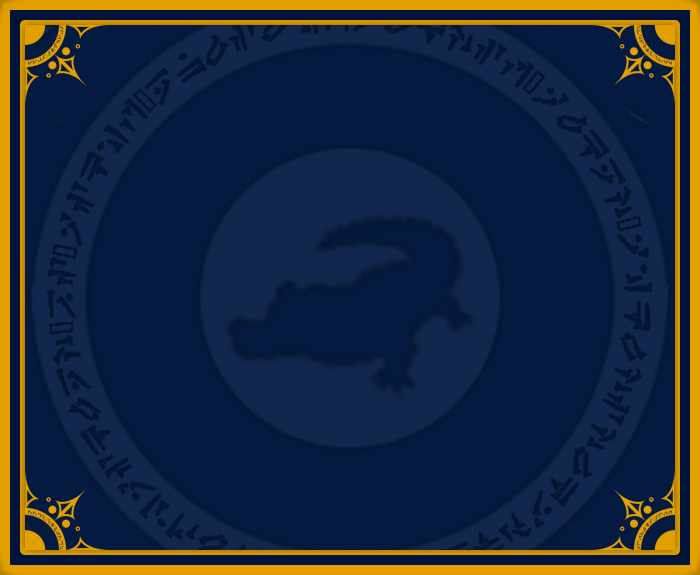
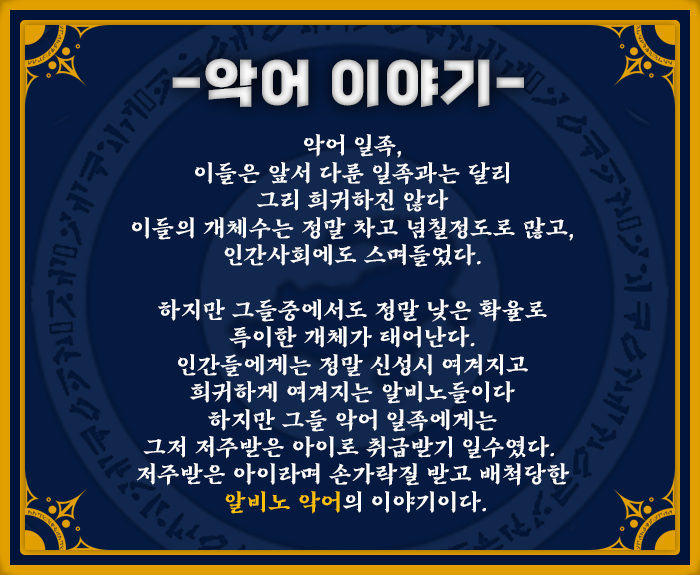
story 애니메이션 변경

Changed region(s): [[0.18, 0.5026, 0.81, 0.887], [0.18, 0.2365, 0.81, 0.473], [0.24, 0.0887, 0.75, 0.207]]

diff --git a/index.html b/index.html
@@ -72,106 +72,31 @@
               <ul class="carousel__container">
                 <li class="inner">
                   <div class="carousel__content">
-                    <div class="text__container">
-                      <h3>- 세계관 -</h3>
-                      <p>태고신은 자신을 본따 인간을 만들고</p>
-                      <p>자신의 추종자를 본따 짐승들을 만들어냈다.</p>
-                      <p>시간이 흘러 태고신은 영면에 들게되었고</p>
-                      <p>후계자에게 자리를 물려주었지만</p>
-                      <p>친 인간파 였던 후계자는 금기사항을 어기고</p>
-                      <p>짐승들의 영성을 빼앗았다.</p>
-                      <div class="line"></div>
-                      <p>친 인간파인 후계자에게 대항하기 위해</p>
-                      <p>태고신의 추종자는 그 어디에도 속하지못하고 배척받은</p>
-                      <p>짐승들에게 태고신의 힘을 빌려</p>
-                      <p>영성을 돌려주고 애니멀 라운지라는 단체를 개설해</p>
-                      <p>인간과 동물의 화합을 추진하도록 한다.</p>
-                      </div>
+                    <div class="text__container"></div>
                   </div>
                   <div class="background__img"></div>
                 </li>
                 <li class="inner">
                   <div class="carousel__content">
-                    <div class="text__container">
-                    <h3>- 일각고래 이야기 -</h3>
-                    <p>일각고래 일족,</p>
-                    <p> 그 일족은 태고부터 내려온 신비한 힘이 </p>
-                    <p>그 뿔에 담긴 일족이다.</p>
-                    <p>그들은 바다의 유니콘이라 불리우며</p>
-                    <p>바다의 생태를 정화하는것을 업으로 삼았었다.</p>
-                    <p>하지만 영성을 빼앗긴 후,</p>
-                    <p>무분별한 사냥과 포획으로</p>
-                    <p>그들의 개체는 80프로 이상 사라지고</p>
-                    <p>그들은 인간들을 피해 바다 깊숙한 해저의 자리를 트고</p>
-                    <p>더 이상 인간계에선 보이지 않았었다.</p>
-                    <div class="line"></div>
-                    <p>그렇게 숨어살던 일각고래 일족의 한 아이는 </p>
-                    <p>인간에게 호기심이 생겨 인간에게 가까이 다가갔었다.</p>
-                    <p>이 아이는 인간의 위험성을 모르고 다가갔다가</p>
-                    <p>되려 뿔이 잘리게 되었다.</p>
-                    <p>그로인해 금기를 어겨 일족으로부터 버려진</p>
-                    <p>한 <strong>일각고래</strong>의이야기이다.</p>
-                    </div>
+                    <div class="text__container"></div>
                 </div>
                 <div class="background__img"></div>
                 </li>
                 <li class="inner">
                   <div class="carousel__content">
-                    <div class="text__container">
-                    <h3>- 알바트로스 이야기 -</h3>
-                    <p>알바트로스 일족,</p>
-                    <p>알바트로스 일족은 세상에서 가장 큰 새 일족으로,</p>
-                    <p>태고의 알바트로스 일족은 그 위엄이 하늘을 덮을 정도였다.</p>
-                    <p>그 모습을 본 과거의 인간들은</p>
-                    <p>마치 크나큰 검은 날개를 보고 신성시 여기었었다.</p>
-                    <p>그 후로 많은 시간이 흐르고</p>
-                    <p>발전하고 발달한 인간과는 달리 점점 도태되어가고</p>
-                    <p>그 수도 줄어들고 있었다.</p>
-                    <div class="line"></div>
-                    <p>그 중에서도 너무 작은 아이가 태어나</p>
-                    <p>멸족의 징조라며 모두 그 아이를 미워하고 싫어하게 되었다.</p>
-                    <p>이것은 가장 작은 <strong>알바트로스</strong>의 이야기이다.</p>
-                    </div>
+                    <div class="text__container"></div>
                 </div>
                 <div class="background__img"></div>
                 </li>
                 <li class="inner">
                   <div class="carousel__content">
-                    <div class="text__container">
-                    <h3>- 악어 이야기 -</h3>
-                      <p>악어 일족,</p>
-                      <p>이들은 앞서 다룬 일족들과는 달리 그리 희귀하진 않다.</p>
-                      <p>이들의 개체수는 정말 차고 넘칠정도로 많고,</p>
-                      <p>인간사회에도 스며들었다.</p>
-                      <p>하지만 그들중에서도 정말 낮은 확률로 특이한 개체가 태어난다.</p>
-                      <p>인간들에게는 정말 신성시 여겨지고</p>
-                      <p>희귀하게 여겨지는 알비노들이다.</p>
-                      <div class="line"></div>
-                      <p>하지만 그들 악어 일족에게는 그저 저주받은 아이로 취급받기 일수였다.</p>
-                      <p>저주받은 아이라며 손가락질 받고</p>
-                      <p>배척당한 <strong>알비노 악어</strong>의 이야기이다.</p>
-                    </div>
+                    <div class="text__container"></div>
                 </div>
                 <div class="background__img"></div>
                 </li>
                 <li class="inner">
                   <div class="carousel__content">
-                    <div class="text__container">
-                    <h3>- 랍스터 이야기 -</h3>
-                      <p>랍스터 일족,</p>
-                      <p>이들은 큰 집게를 가진것을</p>
-                      <p>자부심으로 생각하는 일족이다.</p>
-                      <p>가장 큰 집게를 지닌 랍스터가 족장이 되는</p>
-                      <p>전통을 가지고 있었다.</p>
-                      <p>당시 가장 큰 집게를 가진 선대 족장이 자식을 낳았는데,</p>
-                      <p>그 아이는 한쪽 집게만 족장을 닮고</p>
-                      <p>나머지 한쪽은 정말 볼품없을 정도로 작았다.</p>
-                      <p>부모와 비교할수록 정말 작은 한쪽 집게 때문에</p>
-                      <p>그 아이는 일족 내에서도 무시를 당해왔었다. </p>
-                      <div class="line"></div>
-                      <p>결국 일족들에게 버림받고 외톨이가 된</p>
-                      <p>한 <strong>랍스터</strong>에 관한 이야기이다.</p>
-                    </div>
+                    <div class="text__container"></div>
                 </div>
                 <div class="background__img"></div>
                 </li>
@@ -213,10 +138,12 @@
                     <p class="subtitle">1차 신청 - 블라인드 테스트 형식</p>
                     <li>지원 자격을 갖춘 분에 한하여 모든 지원자들의 끼와 재능을 가진 분들의 합격 유무를 정합니다.</li>
                     <em>* 합격자들은 캐릭터의 적합성을 보고 포지션을 배분하겠습니다.</em>
-                    <em>* 1차 합격자 통보 후에는 본인을 나타낼 수 있는 이력서 등을 함께 제출 부탁드립니다. (이력이 없으신 분은 자기소개서)</em>
+                    <em>* 1차 합격자 통보 후에는 본인을 나타낼 수 있는 이력서 등을 함께 제출 부탁드립니다.</em>
+                    <em>(이력이 없으신 분은 자기소개서)</em>
                     <p class="subtitle">2차 면접 - 디스코드 면접 및 오디션</p>
                     <li>2차 면접자 분들이 배분받은 캐릭터의 캐릭터성과 적합성을 심사하고, 노래 오디션을 진행합니다.</li>
-                    <em>*2차 면접때 본인을 나타낼 수 있는 이력서 등을 함께 제출 부탁드립니다.(이력이 없으신 분은 자기소개서)</em>
+                    <em>*2차 면접때 본인을 나타낼 수 있는 이력서 등을 함께 제출 부탁드립니다.</em>
+                    <em>(이력이 없으신 분은 자기소개서)</em>
                     <p class="subtitle">3차 계약 - 대면 계약</p>
                     <li>대면이 불가할 경우 온라인 계약이 가능합니다.</li>
                     <p class="subtitle">4차 최종 발표 - 합격자 발표</p>

diff --git a/style.css b/style.css
@@ -419,7 +419,6 @@ section {
 
 .carousel__content {
   display: none;
-  /* font-size: 1.4em; */
   font-family: "MICEGothic Bold";
 }
 
@@ -444,8 +443,6 @@ section {
 .text__container p,
 .text__container h3 {
   opacity: 0;
-  /* -webkit-transform: scale(0.5); */
-  /* font-size: 1.7vw; */
 }
 
 .line {
@@ -462,12 +459,6 @@ section {
   font-family: "RixYeoljeongdo_Regular";
   font-size: 35px;
   text-shadow: 1px 1px 10px white;
-}
-
-@keyframes fade {
-  to {
-    opacity: 1;
-  }
 }
 
 .carousel__content p {
@@ -655,46 +646,5 @@ section {
 
   .arrow-up {
     display: none;
-  }
-}
-
-@media screen and (max-width: 660px) {
-  .carousel__content h3 {
-    font-size: 25px;
-  }
-
-  .carousel__content p {
-    font-size: 14px;
-  }
-}
-
-@media screen and (max-width: 569px) {
-  .carousel__content h3 {
-    font-size: 15px;
-  }
-
-  .carousel__content p {
-    font-size: 10px;
-  }
-}
-
-@media screen and (max-width: 459px) {
-  .carousel__content h3 {
-    font-size: 12px;
-  }
-
-  .carousel__content p {
-    font-size: 10px;
-  }
-}
-
-@media screen and (max-width: 451px) {
-  .carousel__content h3 {
-    -webkit-transform: scale(0.83);
-  }
-
-  .carousel__content p {
-    -webkit-transform: scale(0.5);
-    line-height: 6px;
   }
 }
